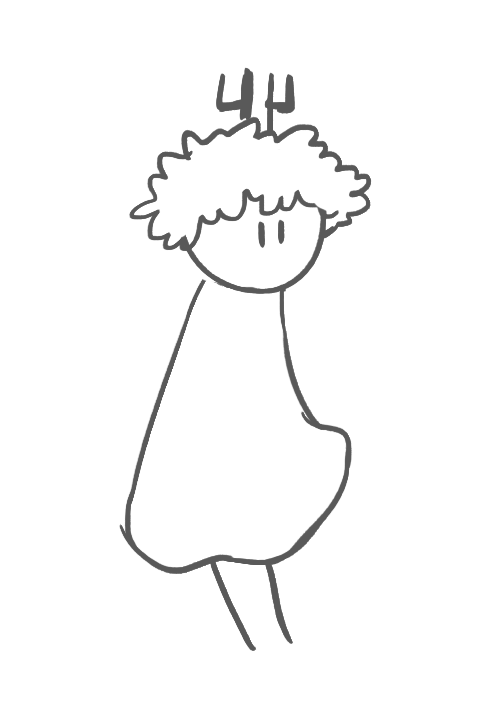
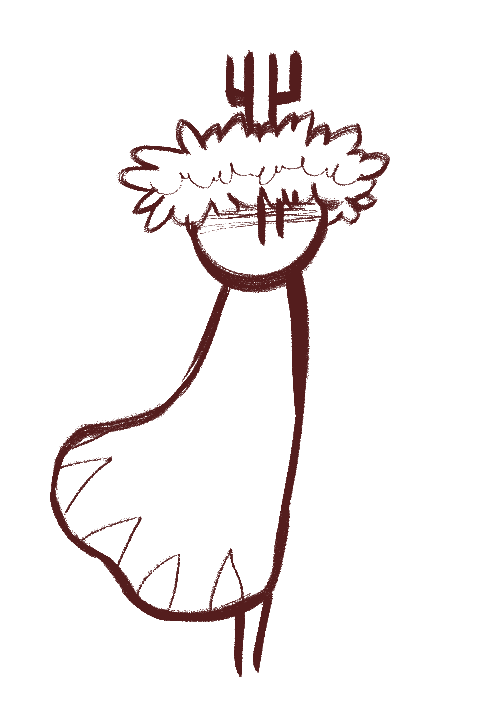
better idle

Changed region(s): [[0.09, 0.0611, 0.78, 0.9472], [0.66, 0.6111, 0.72, 0.7028], [0.63, 0.7028, 0.66, 0.7333]]

diff --git a/src/game/assets.ts b/src/game/assets.ts
@@ -30,6 +30,9 @@ export type AssetPath =
   | "char_idle (6).png"
   | "char_idle (7).png"
   | "char_idle (8).png"
+  | "char_idle (9).png"
+  | "char_idle (10).png"
+  | "char_idle (11).png"
   | "char_walk (1).png"
   | "char_walk (2).png"
   | "char_walk (3).png"
@@ -96,6 +99,9 @@ export const AssetsToLoad = {
       "char_idle (6).png",
       "char_idle (7).png",
       "char_idle (8).png",
+      "char_idle (9).png",
+      "char_idle (10).png",
+      "char_idle (11).png",
     ],
   },
   "char_walk": {
